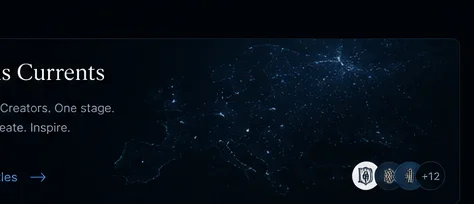
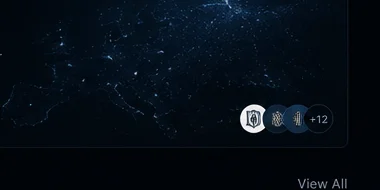
XIIO 180 Changed_2

diff --git a/src/components/home/HomeMockPage.tsx b/src/components/home/HomeMockPage.tsx
@@ -71,7 +71,7 @@ export default function HomeMockPage() {
     <main className="min-h-screen" style={heroStyle}>
       <section
         ref={heroSectionRef}
-        className={`relative ${MOCKUP_HOME.heroMinHeight} ${MOCKUP_HOME.pageGutter} pb-10 pt-6 lg:pt-10`}
+        className={`relative overflow-hidden ${MOCKUP_HOME.heroMinHeight} ${MOCKUP_HOME.pageGutter} pb-10 pt-6 lg:pt-10`}
       >
         <HeroLandscapeBackdrop rgbTuple={rgbTuple} variant="home" gradStartPercent={gradStart} priority />
 
@@ -122,7 +122,7 @@ export default function HomeMockPage() {
         </div>
       </section>
 
-      <div className={`${MOCKUP_HOME.pageGutter} pb-16 space-y-10 ${MOCKUP_HOME.pageMaxWidth}`}>
+      <div className={`relative z-10 bg-[#05070A] ${MOCKUP_HOME.pageGutter} pb-16 space-y-10 ${MOCKUP_HOME.pageMaxWidth}`}>
         <HomeContentRow
           title={t("home.mock.featuredStories")}
           viewAllHref="/movies"

diff --git a/src/components/hero/HeroLandscapeBackdrop.tsx b/src/components/hero/HeroLandscapeBackdrop.tsx
@@ -46,7 +46,7 @@ export default function HeroLandscapeBackdrop({
         className="absolute inset-0 hidden lg:block"
         style={{
           background: heroDiagonalGradient(gradStartPercent, rgbTuple),
-          opacity: 0.72,
+          opacity: 0.9,
           ...maskStyle,
         }}
       />
@@ -54,9 +54,13 @@ export default function HeroLandscapeBackdrop({
         className="absolute inset-0 lg:hidden"
         style={{
           background: heroMobileVerticalGradient(rgbTuple),
-          opacity: 0.72,
+          opacity: 0.9,
           ...maskStyle,
         }}
+      />
+      <div
+        className="absolute inset-0 bg-gradient-to-r from-black/55 via-black/15 to-transparent lg:from-black/50 lg:via-transparent lg:to-transparent"
+        style={maskStyle}
       />
       <div
         className="absolute inset-0 bg-gradient-to-b from-black/20 via-transparent to-xiio-bg/90"

diff --git a/src/lib/homeHeroBackground.ts b/src/lib/homeHeroBackground.ts
@@ -1,2 +1,2 @@
 export const HERO_LANDSCAPE_IMAGE = "/images/hero-landscape.webp";
-export const HERO_LANDSCAPE_POSITION = "center 40%";
+export const HERO_LANDSCAPE_POSITION = "right center";
